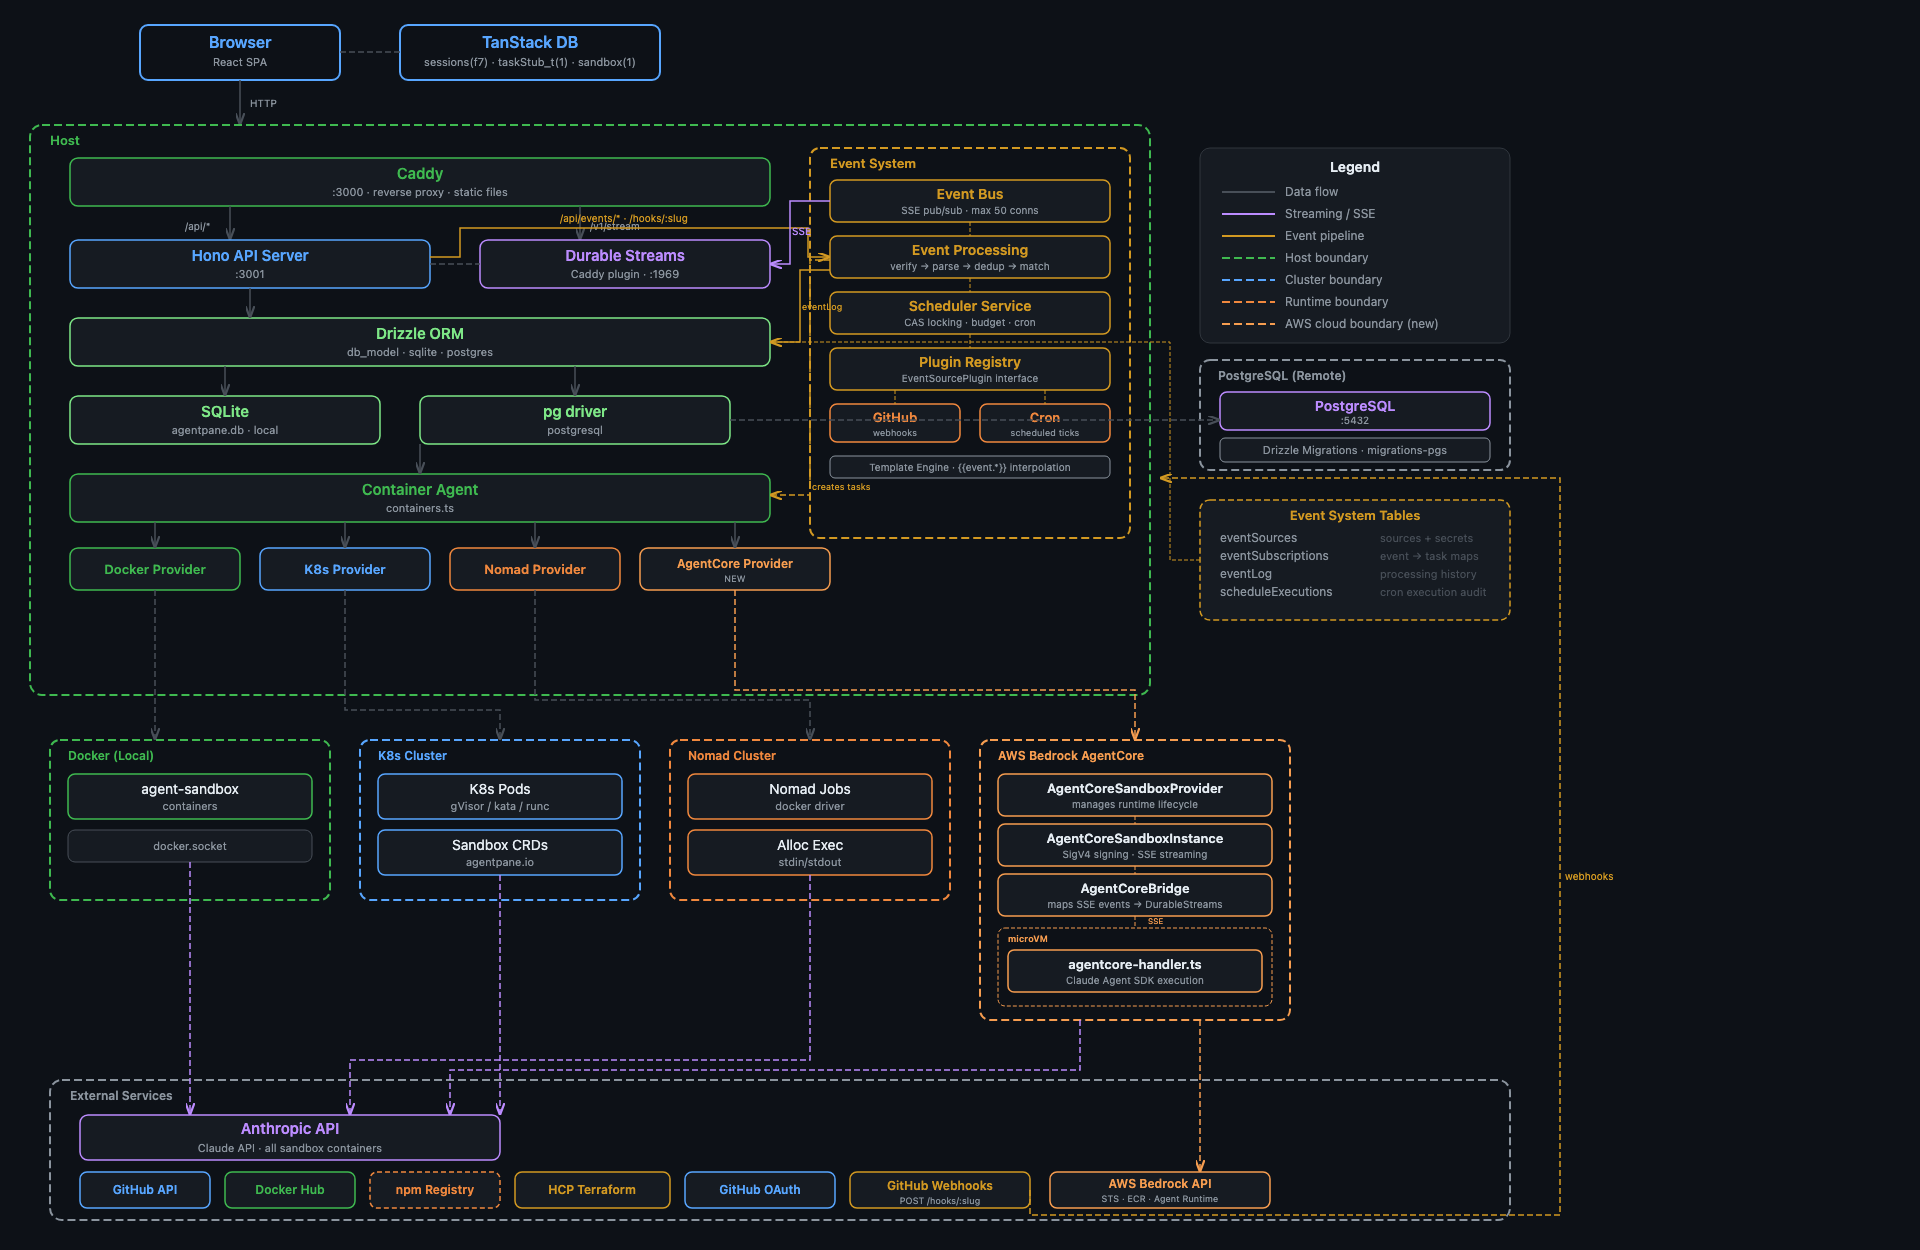
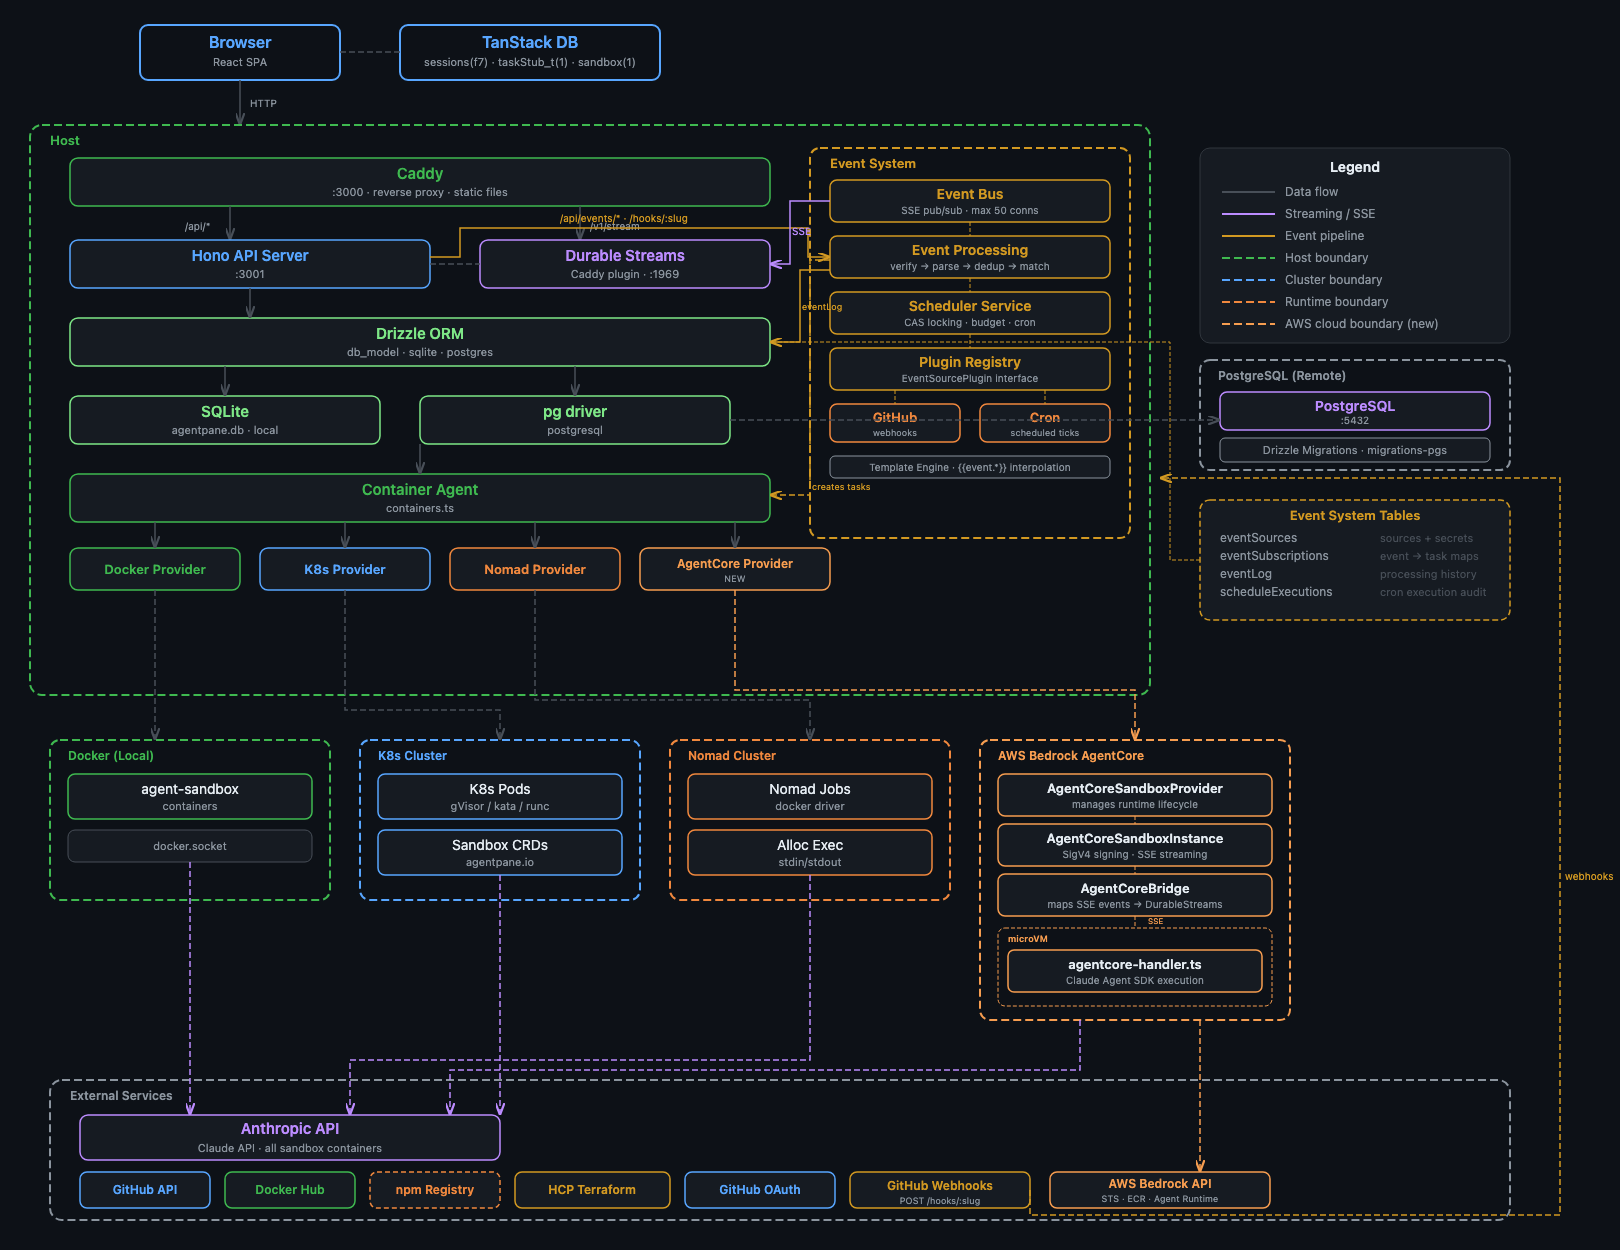
docs: trim right-side whitespace from architecture and tenancy diagrams
Reduce SVG viewBox width to match actual content bounds:
- _architecture-diagram: 1920 → 1620
- _tenancy-model: 1920 → 1580

diff --git a/docs/_tenancy-model.html b/docs/_tenancy-model.html
@@ -10,7 +10,7 @@ svg { display: block; }
 </style>
 </head>
 <body>
-<svg xmlns="http://www.w3.org/2000/svg" viewBox="0 0 1920 1330" width="1920" height="1330">
+<svg xmlns="http://www.w3.org/2000/svg" viewBox="0 0 1580 1330" width="1580" height="1330">
 <defs>
   <marker id="arrow-gray" markerWidth="8" markerHeight="6" refX="8" refY="3" orient="auto">
     <path d="M0,0 L8,3 L0,6" fill="none" stroke="#484f58" stroke-width="1.5"/>
@@ -33,7 +33,7 @@ svg { display: block; }
 </defs>
 
 <!-- Background -->
-<rect width="1920" height="1440" fill="#0d1117"/>
+<rect width="1580" height="1330" fill="#0d1117"/>
 
 <!-- ==================== TITLE ==================== -->
 <text x="540" y="42" fill="#e6edf3" font-size="22" font-weight="700">AgentPane Tenancy Model</text>

diff --git a/docs/_architecture-diagram.html b/docs/_architecture-diagram.html
@@ -10,7 +10,7 @@ svg { display: block; }
 </style>
 </head>
 <body>
-<svg xmlns="http://www.w3.org/2000/svg" viewBox="0 0 1920 1250" width="1920" height="1250">
+<svg xmlns="http://www.w3.org/2000/svg" viewBox="0 0 1620 1250" width="1620" height="1250">
 <defs>
   <marker id="arrow-gray" markerWidth="8" markerHeight="6" refX="8" refY="3" orient="auto">
     <path d="M0,0 L8,3 L0,6" fill="none" stroke="#484f58" stroke-width="1.5"/>
@@ -27,7 +27,7 @@ svg { display: block; }
 </defs>
 
 <!-- Background -->
-<rect width="1920" height="1640" fill="#0d1117"/>
+<rect width="1620" height="1250" fill="#0d1117"/>
 
 <!-- ==================== TOP ROW: Browser + TanStack DB ==================== -->
 <!-- Browser -->
